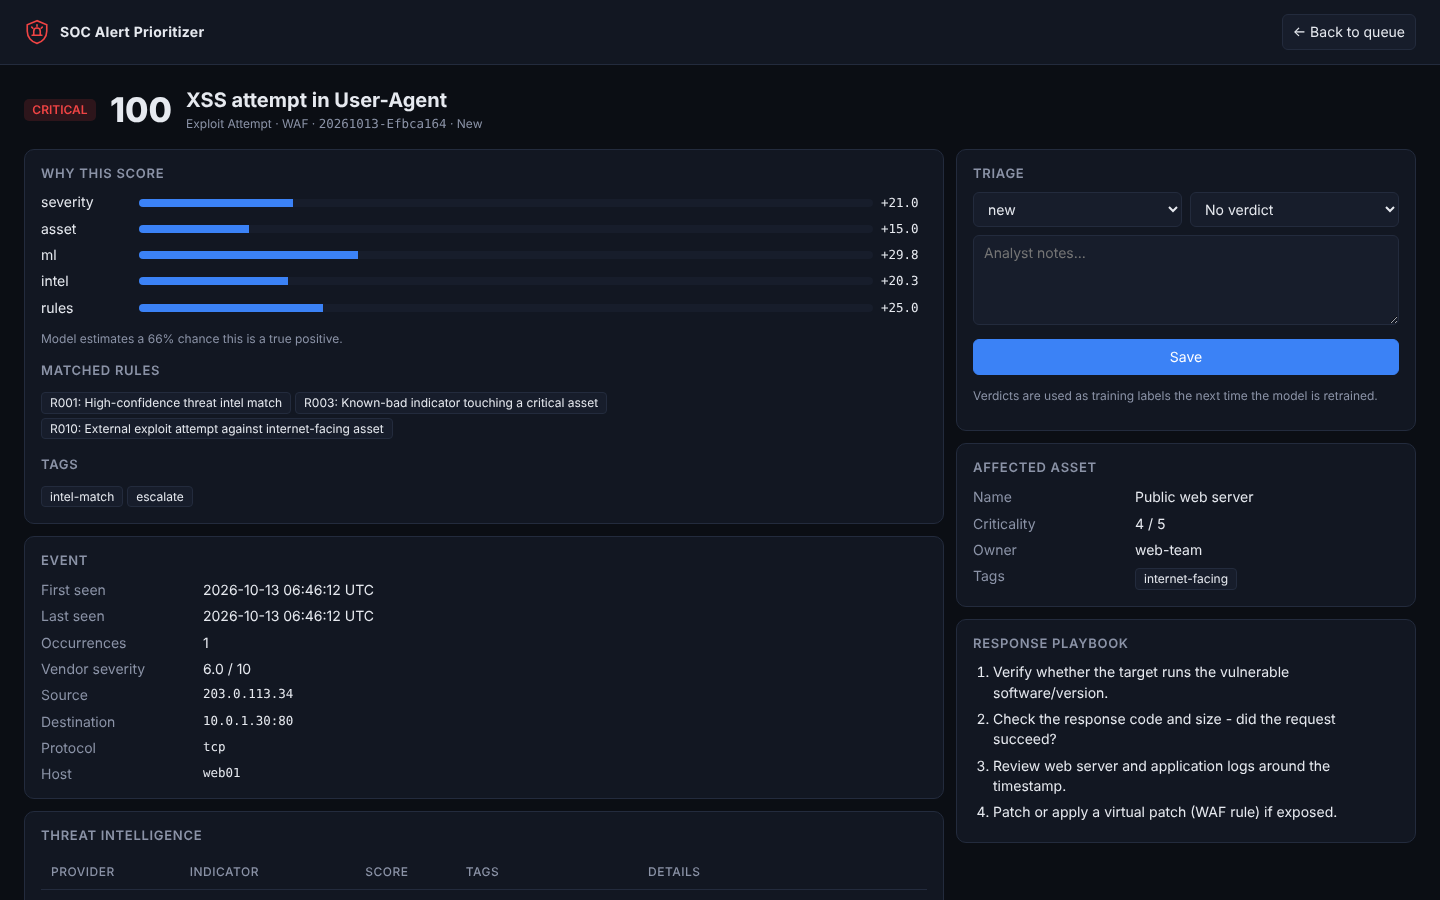
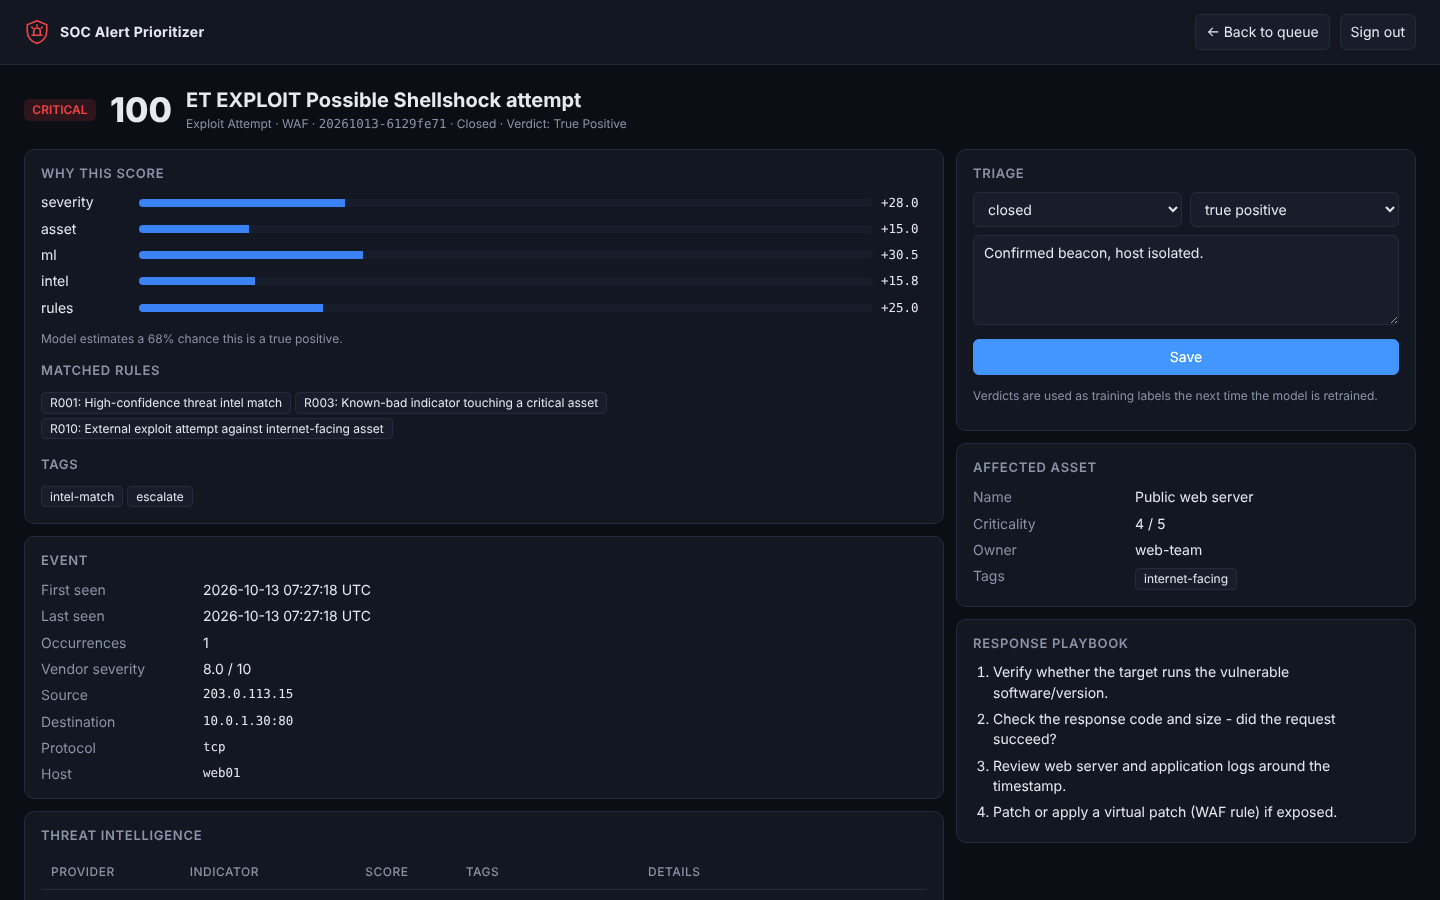
Document security model and deployment

diff --git a/SECURITY.md b/SECURITY.md
@@ -1,0 +1,39 @@
+# Security Policy
+
+## Reporting a vulnerability
+
+Please do not open a public issue for security problems. Use GitHub's
+[private vulnerability reporting](https://github.com/nlevenov/soc-alert-prioritizer/security/advisories/new)
+instead. I aim to acknowledge reports within 72 hours.
+
+## Threat model
+
+The tool processes log content, and log content is attacker-controlled: an
+attacker who can make a sensor log something can put arbitrary text into
+signatures, user names, URLs and host names. The design treats every alert
+field as untrusted input.
+
+| Threat | Mitigation |
+|--------|------------|
+| Stored XSS through log fields | Jinja2 autoescaping, `escapeHtml` in the dashboard, explicit escaping in the HTML report, strict CSP (`script-src 'self'`, no inline handlers) |
+| CSV / formula injection in exports | Cells starting with `= + - @` are prefixed with `'` |
+| Chat injection (`<!channel>`, disguised links) | Slack/Mattermost markup is escaped in webhook messages |
+| Malformed or oversized input | IPs and ports are validated, text fields are length-bounded and stripped of control characters, request bodies capped at 10 MB, future timestamps clamped |
+| SQL injection | Bound parameters everywhere, fixed column lists, `LIKE` wildcards escaped |
+| Unauthorized access | API key (constant-time compare) or HMAC-signed `HttpOnly`, `SameSite=Strict` session cookie; weak keys refused; lockout after 10 failures in 5 minutes |
+| CSRF | `SameSite=Strict` plus an `Origin` check on every state-changing request |
+| DNS rebinding against a local instance | Without an API key the app only answers to `localhost` Host headers |
+| Exposure on the network | `serve` refuses non-loopback binds without an API key; Docker publishes on 127.0.0.1 |
+| Malicious model file (pickle code execution) | Models are signed (HMAC-SHA256 with `SOCPRIO_MODEL_KEY`) and verified before loading |
+| Secret leakage | Secrets only via environment variables; the webhook URL is never logged |
+| Clickjacking, MIME sniffing | `X-Frame-Options: DENY`, `frame-ancestors 'none'`, `nosniff` |
+| Container escape / lateral movement | Non-root user, read-only root filesystem, all capabilities dropped, `no-new-privileges` |
+| Vulnerable dependencies | `pip-audit` and `bandit` in CI, Dependabot updates |
+
+## Deployment checklist
+
+- Set `SOCPRIO_API_KEY` (32+ random characters) and `SOCPRIO_MODEL_KEY`.
+- Terminate TLS in a reverse proxy (nginx, Traefik, Caddy), run with
+  `--behind-proxy` and set `allowed_hosts` to the public host name.
+- Keep `config/` and `feeds/` read-only for the service account.
+- Rotate the API key to invalidate every analyst session.

diff --git a/README.md b/README.md
@@ -60,6 +60,11 @@ does it automatically for every alert.
 - **Research tooling** - synthetic labelled data generator, CIC-IDS2017/2018
   loader and a benchmark comparing rule-based and ML-based prioritization
   (precision, recall, F1, precision@k).
+- **Secure by default** - log content is treated as hostile: validated,
+  bounded and escaped everywhere it is rendered or exported. API key or
+  signed-session authentication, CSRF and DNS-rebinding protection, strict
+  CSP, signed model files and a hardened container. See
+  [SECURITY.md](SECURITY.md).
 
 ## How it works
 
@@ -118,9 +123,14 @@ socprio demo          # trains a model on synthetic history, ingests a day of
 Or with Docker:
 
 ```bash
-cp .env.example .env  # optional: API keys, webhook
+cp .env.example .env
+# set SOCPRIO_API_KEY (and SOCPRIO_MODEL_KEY) - the container refuses to start without a key
 docker compose up --build
 ```
+
+Without an API key the server only listens on localhost. To expose it, set a
+key, put a TLS reverse proxy in front and start it with
+`socprio serve --host 0.0.0.0 --behind-proxy --public-url https://soc.example.internal`.
 
 ## Usage
 
@@ -172,8 +182,9 @@ an account compromise by rule `R006`.
 
 ## REST API
 
-Interactive docs at `/docs` (OpenAPI). Write endpoints require the
-`X-API-Key` header when `SOCPRIO_API_KEY` is set.
+Interactive docs at `/docs` (OpenAPI). When `SOCPRIO_API_KEY` is set every
+endpoint except `/health` requires it, either as an `X-API-Key` header
+(scripts, SIEM forwarders) or through a browser session from `/login`.
 
 | Method | Path | Purpose |
 |--------|------|---------|
@@ -257,6 +268,7 @@ src/socprio/
   evaluation.py training helpers and strategy benchmark
   simulate.py   labelled synthetic alert generator
   cli.py        command line interface
+  api/security.py  authentication, sessions, CSRF, security headers
 config/         settings, rules, asset inventory
 feeds/          local threat intelligence
 data/sample/    example logs in every supported format
@@ -269,6 +281,7 @@ tests/          pytest suite
 make dev      # editable install with test tools
 make test     # pytest
 make lint     # ruff
+make security # bandit + pip-audit
 ```
 
 ## Roadmap

diff --git a/docs/architecture.md b/docs/architecture.md
@@ -87,11 +87,18 @@ Nested structures (intel hits, asset, breakdown, raw event) are stored as
 JSON columns. Statistics for the dashboard and reports are computed with
 pandas from a narrow projection of the table.
 
-## Security notes
+## Security
 
-* Secrets are only read from environment variables via `${VAR}` expansion.
-* Write endpoints require `X-API-Key` when an API key is configured; the
-  comparison is constant-time.
-* All dynamic values in the dashboard are HTML-escaped; Jinja2 autoescaping
-  is on for server-rendered pages.
-* The container runs as an unprivileged user.
+The full threat model is in [SECURITY.md](../SECURITY.md). In short:
+
+* Alert fields are validated when the `Alert` model is built (IP and port
+  syntax, length limits, control characters, clock skew) and escaped
+  wherever they are rendered: Jinja2 autoescaping, `escapeHtml` in the
+  dashboard JavaScript, `html.escape` in the report, formula neutralization
+  in CSV exports, markup escaping in webhook messages.
+* [`api/security.py`](../src/socprio/api/security.py) implements API-key and
+  HMAC-signed session authentication, a failed-login limiter, the `Origin`
+  check that blocks CSRF, and a middleware that adds security headers and
+  caps request bodies at 10 MB.
+* Trained models are written atomically with a detached signature and only
+  unpickled after the signature verifies.
